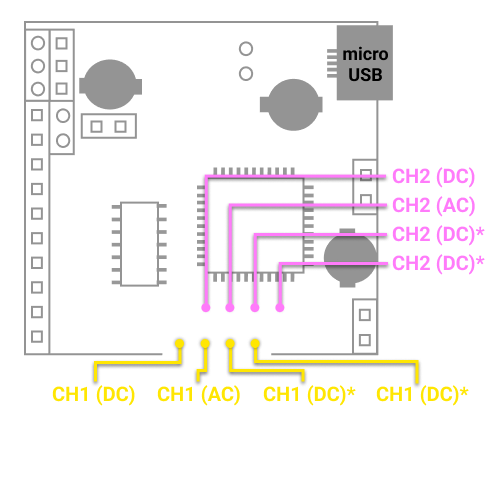
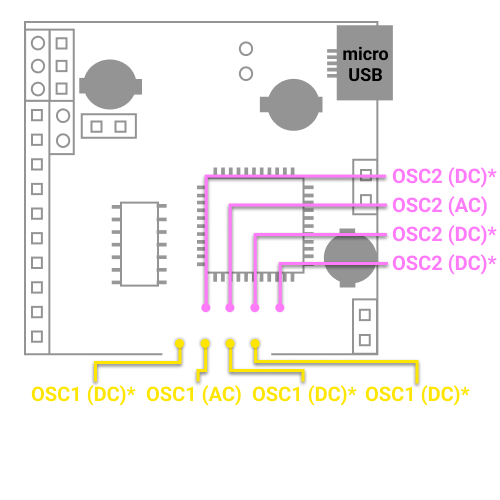
Usability Improvements - Added global pinout - Added general section to readme - Removed 'CH1', 'CH2' symbols, ie. changed 'CH1' to 'SG1' and 'OSC1' to avoid confusion - Pinout -> Pinout Diagram - Added hint text to math mode

Changed region(s): [[0.06, 0.75, 0.93, 0.81], [0.81, 0.33, 0.99, 0.54]]

diff --git a/src/App.hpp b/src/App.hpp
@@ -42,9 +42,12 @@ int windows_system(const char* cmd) {
 // Global textures to be loaded once during start-up
 int constants::pinout_width;
 int constants::pinout_height;
+int constants::glob_pinout_width;
+int constants::glob_pinout_height;
 intptr_t constants::psu_pinout_texture = 0;
 intptr_t constants::sg_pinout_texture;
 intptr_t constants::osc_pinout_texture;
+intptr_t constants::glob_pinout_texture;
 
 class App : public AppBase<App>
 {
@@ -108,7 +111,8 @@ class App : public AppBase<App>
 		GLuint psu_tmp_texture = 0;
 		GLuint sg_tmp_texture = 0;
 		GLuint osc_tmp_texture = 0;
-		int w, h;
+		GLuint glob_tmp_texture = 0;
+		int w, h, gw, gh;
 
 		// All textures have the same width and height (for now)
 		bool psu_ret = LoadTextureFromFile(getResourcePath("media/psu-pinout.png").c_str(),
@@ -119,15 +123,20 @@ class App : public AppBase<App>
 
 		bool osc_ret = LoadTextureFromFile(getResourcePath("media/osc-pinout.png").c_str(),
 			&osc_tmp_texture, &w, &h);
+		
+		bool glob_ret = LoadTextureFromFile(getResourcePath("media/global-pinout.png").c_str(),
+			&glob_tmp_texture, &gw, &gh);
 
 		PSUWidget.setPinoutImg((intptr_t)psu_tmp_texture, w, h);
 		SG1Widget.setPinoutImg((intptr_t)sg_tmp_texture, w, h);
 		SG2Widget.setPinoutImg((intptr_t)sg_tmp_texture, w, h);
 		OSCWidget.setPinoutImg((intptr_t)osc_tmp_texture, w, h);
+		GeneralHelp.setPinoutImg((intptr_t)glob_tmp_texture, gw, gh);
 
 		IM_ASSERT(psu_ret);
 		IM_ASSERT(sg_ret);
 		IM_ASSERT(osc_ret);
+		IM_ASSERT(glob_ret);
 
 		init_constants();
 
@@ -548,7 +557,8 @@ class App : public AppBase<App>
 	PlotWidget PlotWidgetObj 
 		= PlotWidget("Plot Window",ImVec2(0, 0),constants::PLOT_ACCENT, &OSCWidget);
 	HelpWidget TroubleShoot = HelpWidget("Troubleshooting"); // Purely for universal help
-	ControlWidget* widgets[6]
-	    = { &TroubleShoot, &PSUWidget, &SG1Widget, &SG2Widget, &OSCWidget, &PlotWidgetObj };
+	HelpWidget GeneralHelp = HelpWidget("General");
+	ControlWidget* widgets[7]
+	    = { &GeneralHelp, &TroubleShoot, &PSUWidget, &SG1Widget, &SG2Widget, &OSCWidget, &PlotWidgetObj };
 };
 

diff --git a/src/ControlWidget.hpp b/src/ControlWidget.hpp
@@ -169,7 +169,7 @@ public:
 			ImGui::SetNextItemOpen(true);
 		else if (collapseAll)
 			ImGui::SetNextItemOpen(false);
-		if (pinout_texture != (intptr_t)0 && ImGui ::TreeNode(("Pinout##" + label).c_str()))
+		if (pinout_texture != (intptr_t)0 && ImGui ::TreeNode(("Pinout Diagram##" + label).c_str()))
 		{
 			ImGui::Image((void*) pinout_texture, ImVec2(pinout_width, pinout_height));
 			ImGui::TreePop();
@@ -202,6 +202,9 @@ public:
 
 	void renderHelp()
 	{
+		const int min_width = 400;
+		const int min_height = 400;
+		ImGui::SetNextWindowSizeConstraints(ImVec2(min_width, min_height), ImVec2(FLT_MAX, FLT_MAX));
 		// Render Help Text from markdown format 
 		// Edit README.md to change help popup content
 		if (!ImGui::Begin((help_popup_id).c_str(), &show_help))

diff --git a/src/util.h b/src/util.h
@@ -63,10 +63,12 @@ static std::vector<std::string> volt_formats = { "%.2f", "%.0f" };
 //  textures
 extern int pinout_width;
 extern int pinout_height;
+extern int glob_pinout_width;
+extern int glob_pinout_height;
 extern intptr_t psu_pinout_texture;
 extern intptr_t sg_pinout_texture;
 extern intptr_t osc_pinout_texture;
-
+extern intptr_t glob_pinout_texture;
 // Trigger Type
 enum TriggerType
 {

diff --git a/README.md b/README.md
@@ -29,11 +29,11 @@ sudo xattr -cr /Applications/LabradorImgui.app
 - Clone the respository using Visual Studio 2022 to build and run the latest variant of the application
 
 ### macOS
-- Download cmake (if you have homebrew (https://brew.sh/))
+- Download cmake (if you have homebrew (https://brew.sh/) the command is:)
 ```
 brew install cmake
 ```
-- Run cmake commands in package_mac.sh to build the app bundle (terminal commands must be executed from the cloned repository directory)
+- Run cmake commands through package_mac.sh to build the app bundle by running the below commands from the repository top-level directory:
 ```
 chmod +x package_mac.sh
 ./package_mac.sh
@@ -45,6 +45,15 @@ chmod +x package_mac.sh
 - or you can open LabradorImgui.app in the mac_appbundle folder
 
 # User Documentation
+
+### General
+
+#### About the board
+
+- This application controls the EspoTek Labrador Board.
+- Not all pins are utilised by this application. See Pinout below for a diagram showing the location of all pins used by this application.
+- All Ground (GND) Pins are connected i.e. all GND connections offer a common reference point.
+- [TODO: INSERT EXPLANATION FOR AC COUPLING SITTING at ~1.6 V]
 
 ### Troubleshooting
 
@@ -81,7 +90,7 @@ chmod +x package_mac.sh
 
 #### Additional Information
 - **DC Coupled Pins**: Replicates the properties set in the application.
-- **AC Coupled Pins**: No DC component meaning the offset set in the application may not have the desired effect. Use the DC Oscilloscope Pins to observe this effect in action! 
+- **AC Coupled Pins**: No DC component meaning the offset set in the application may not have the desired effect.
 
 ### Plot Settings
 
